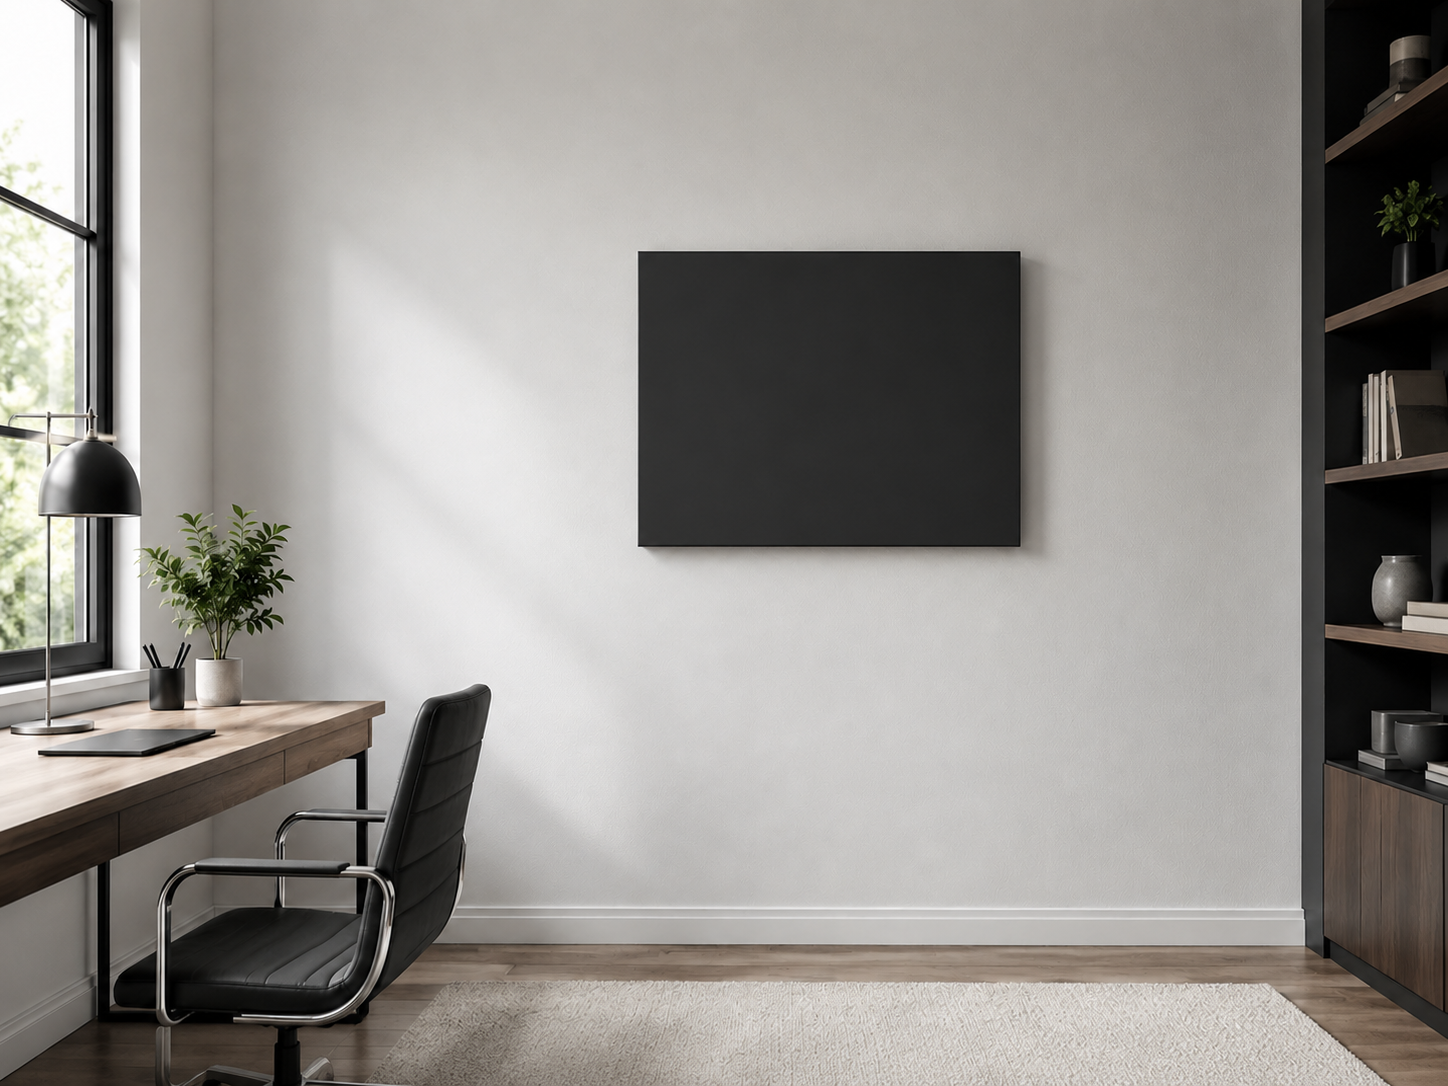
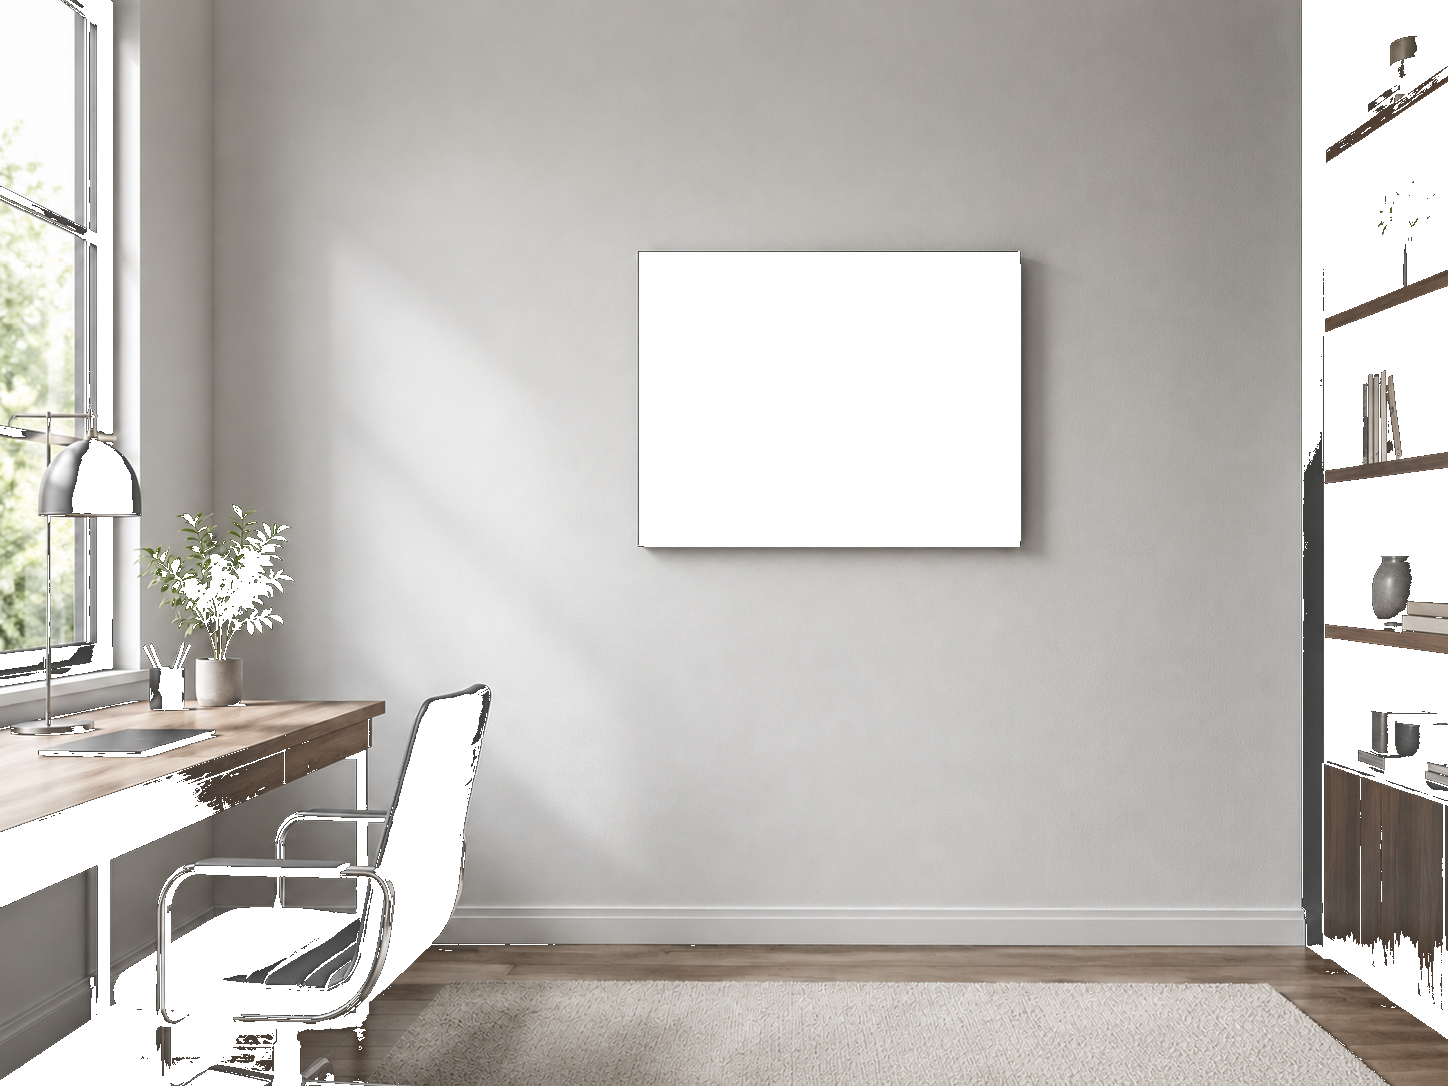
sync: actualizacion 2026-06-23 17:41

diff --git a/index.html b/index.html
@@ -2486,7 +2486,6 @@ function loadImg(src){ return new Promise(r=>{ const i=new Image(); i.onload=()=
 
 async function applyVisu(){
   const key = `${visuEnv}-${visuSize}${visuOrient}`;
-  const c = MOCKUP_COORDS[key] || MOCKUP_COORDS['living-40v'];
   document.getElementById('visu-stage').style.aspectRatio = MOCKUP_RATIO[visuEnv] || '1448/1086';
 
   const [roomImg, artImg] = await Promise.all([
@@ -2500,20 +2499,11 @@ async function applyVisu(){
   canvas.width = W; canvas.height = H;
   const ctx = canvas.getContext('2d');
 
-  // 1. Fondo negro
-  ctx.fillStyle = '#000';
-  ctx.fillRect(0, 0, W, H);
+  // Arte a tamaño completo — solo visible donde el PNG tiene transparencia (el marco)
+  if(artImg) ctx.drawImage(artImg, 0, 0, W, H);
 
-  // 2. Arte en las coordenadas del marco
-  if(artImg){
-    const ax = W*c.l/100, ay = H*c.t/100, aw = W*c.w/100, ah = H*c.h/100;
-    ctx.drawImage(artImg, ax, ay, aw, ah);
-  }
-
-  // 3. Mockup de habitación encima con screen blend
-  ctx.globalCompositeOperation = 'screen';
+  // PNG de habitación encima: marco=transparente (muestra arte), resto=opaco (muestra habitación)
   ctx.drawImage(roomImg, 0, 0, W, H);
-  ctx.globalCompositeOperation = 'source-over';
 }
 
 function initVisuFromJSON(){
